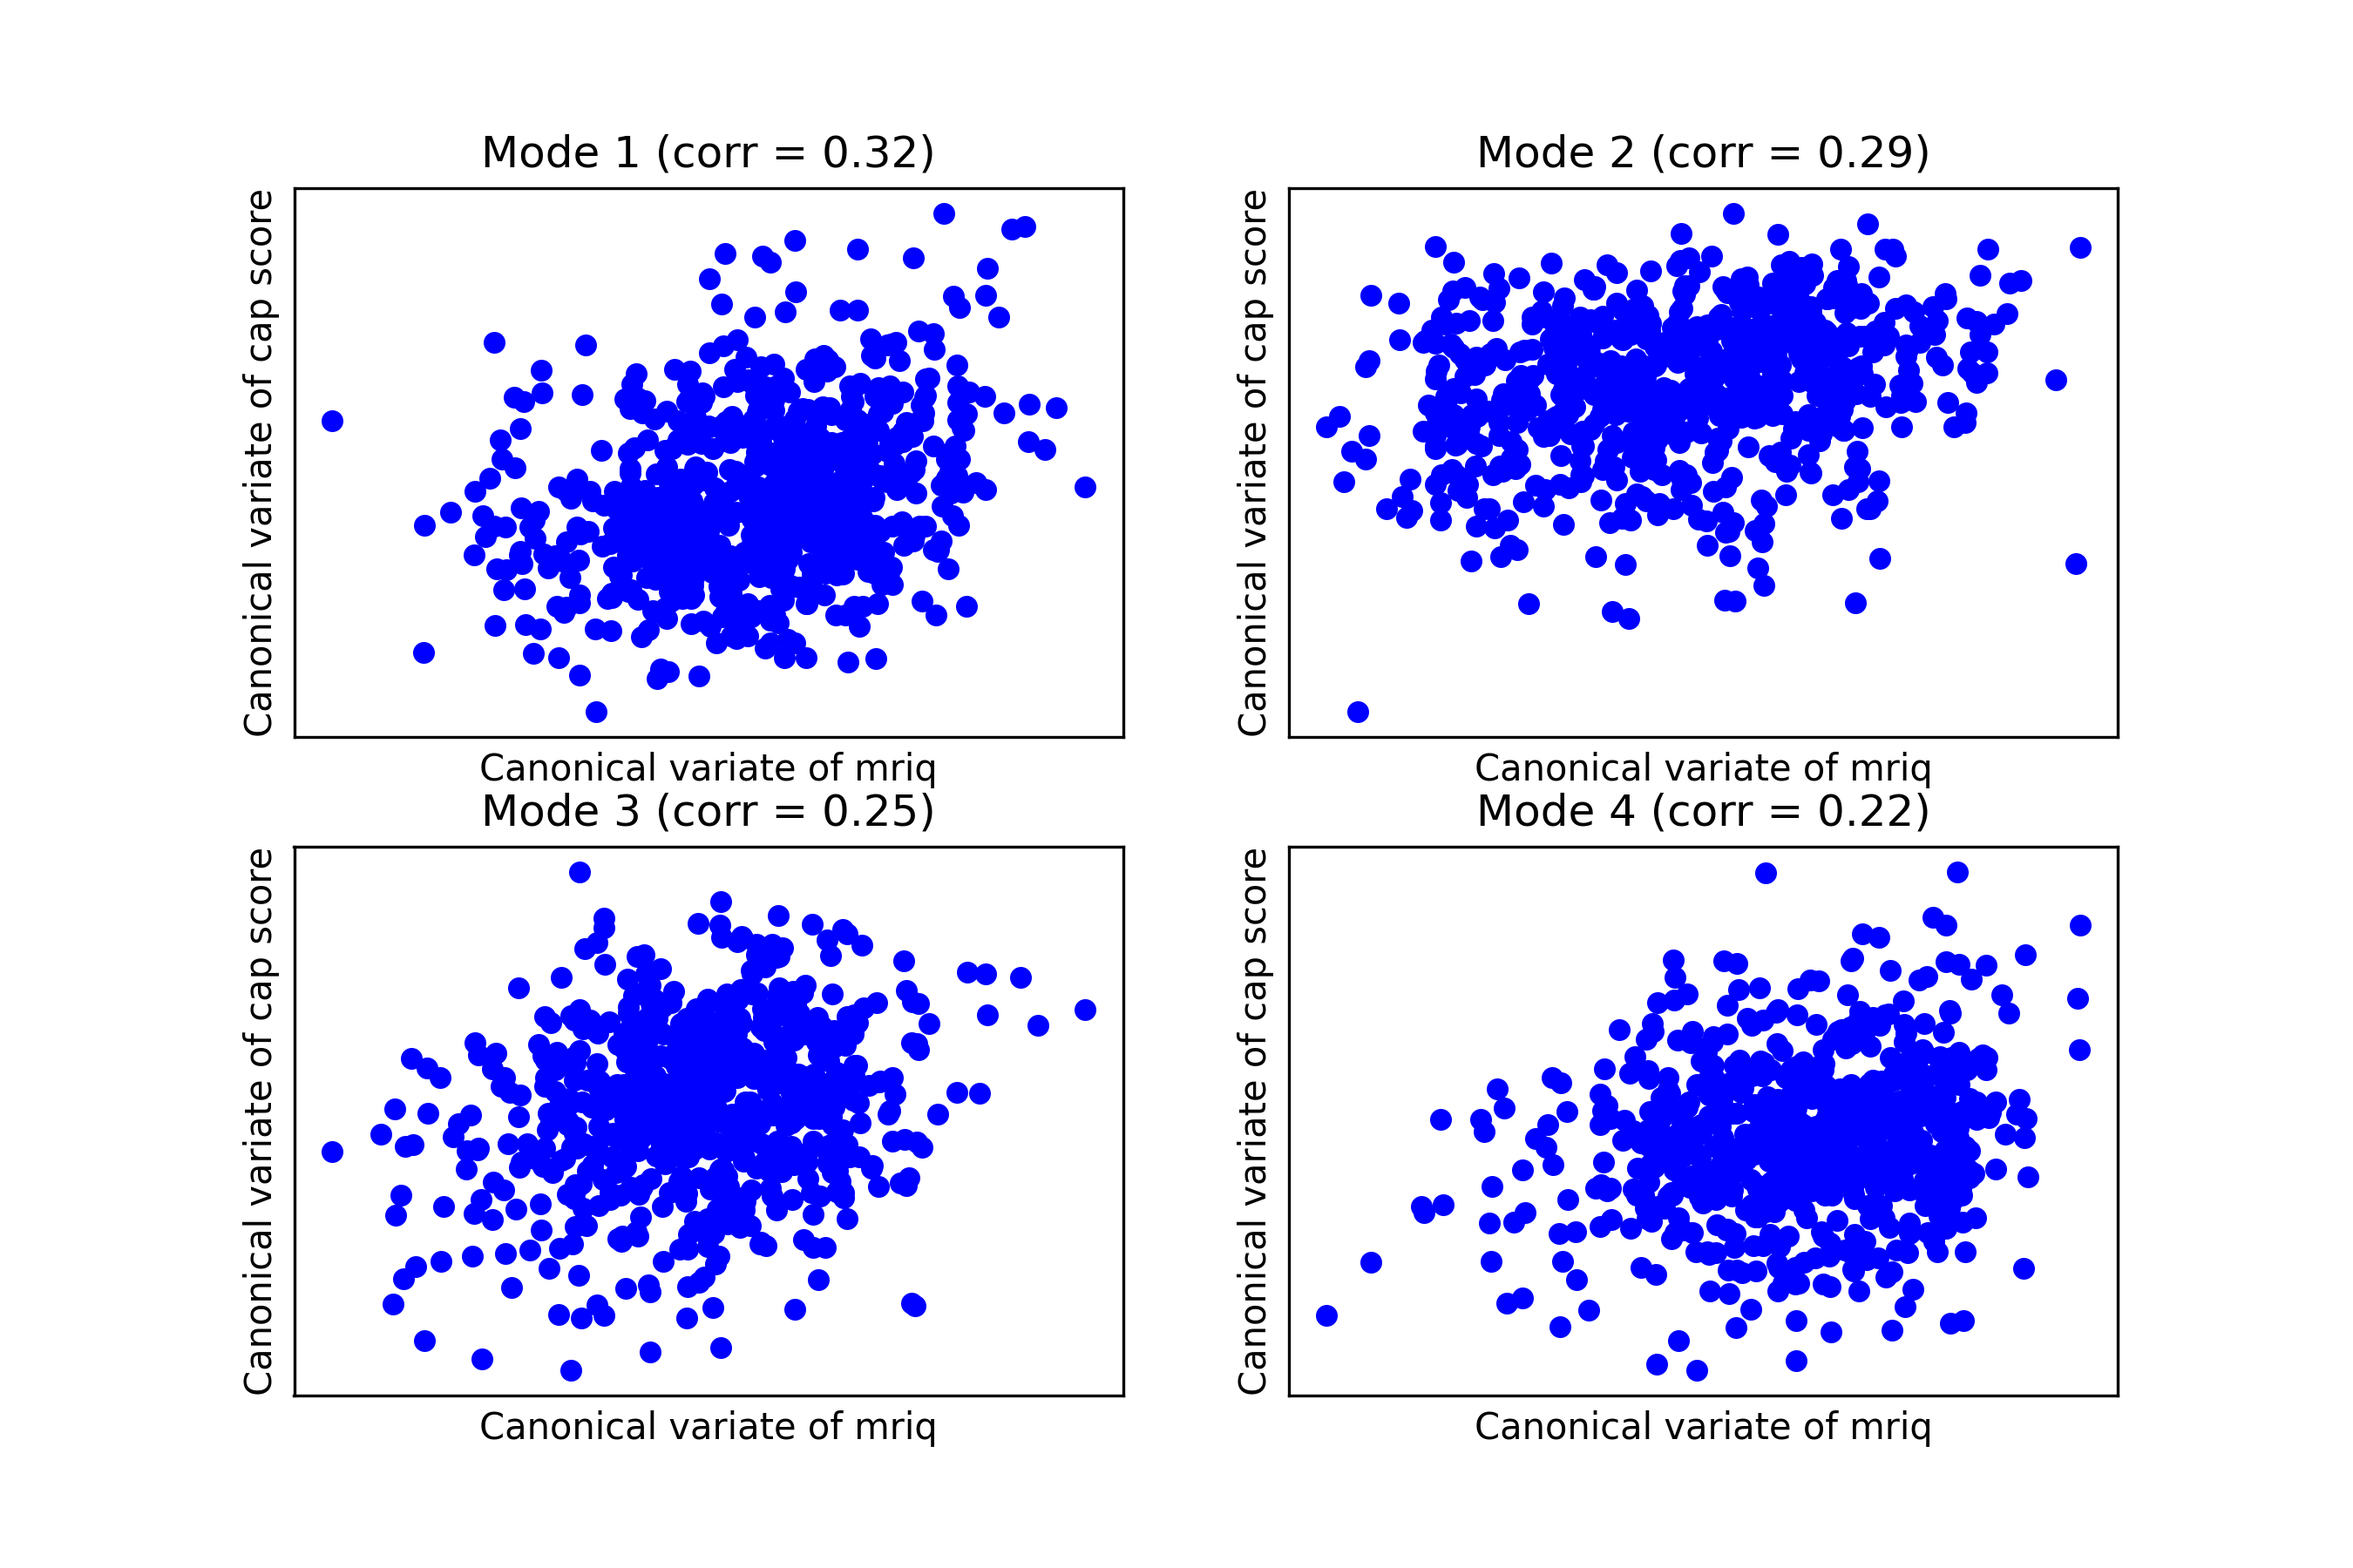
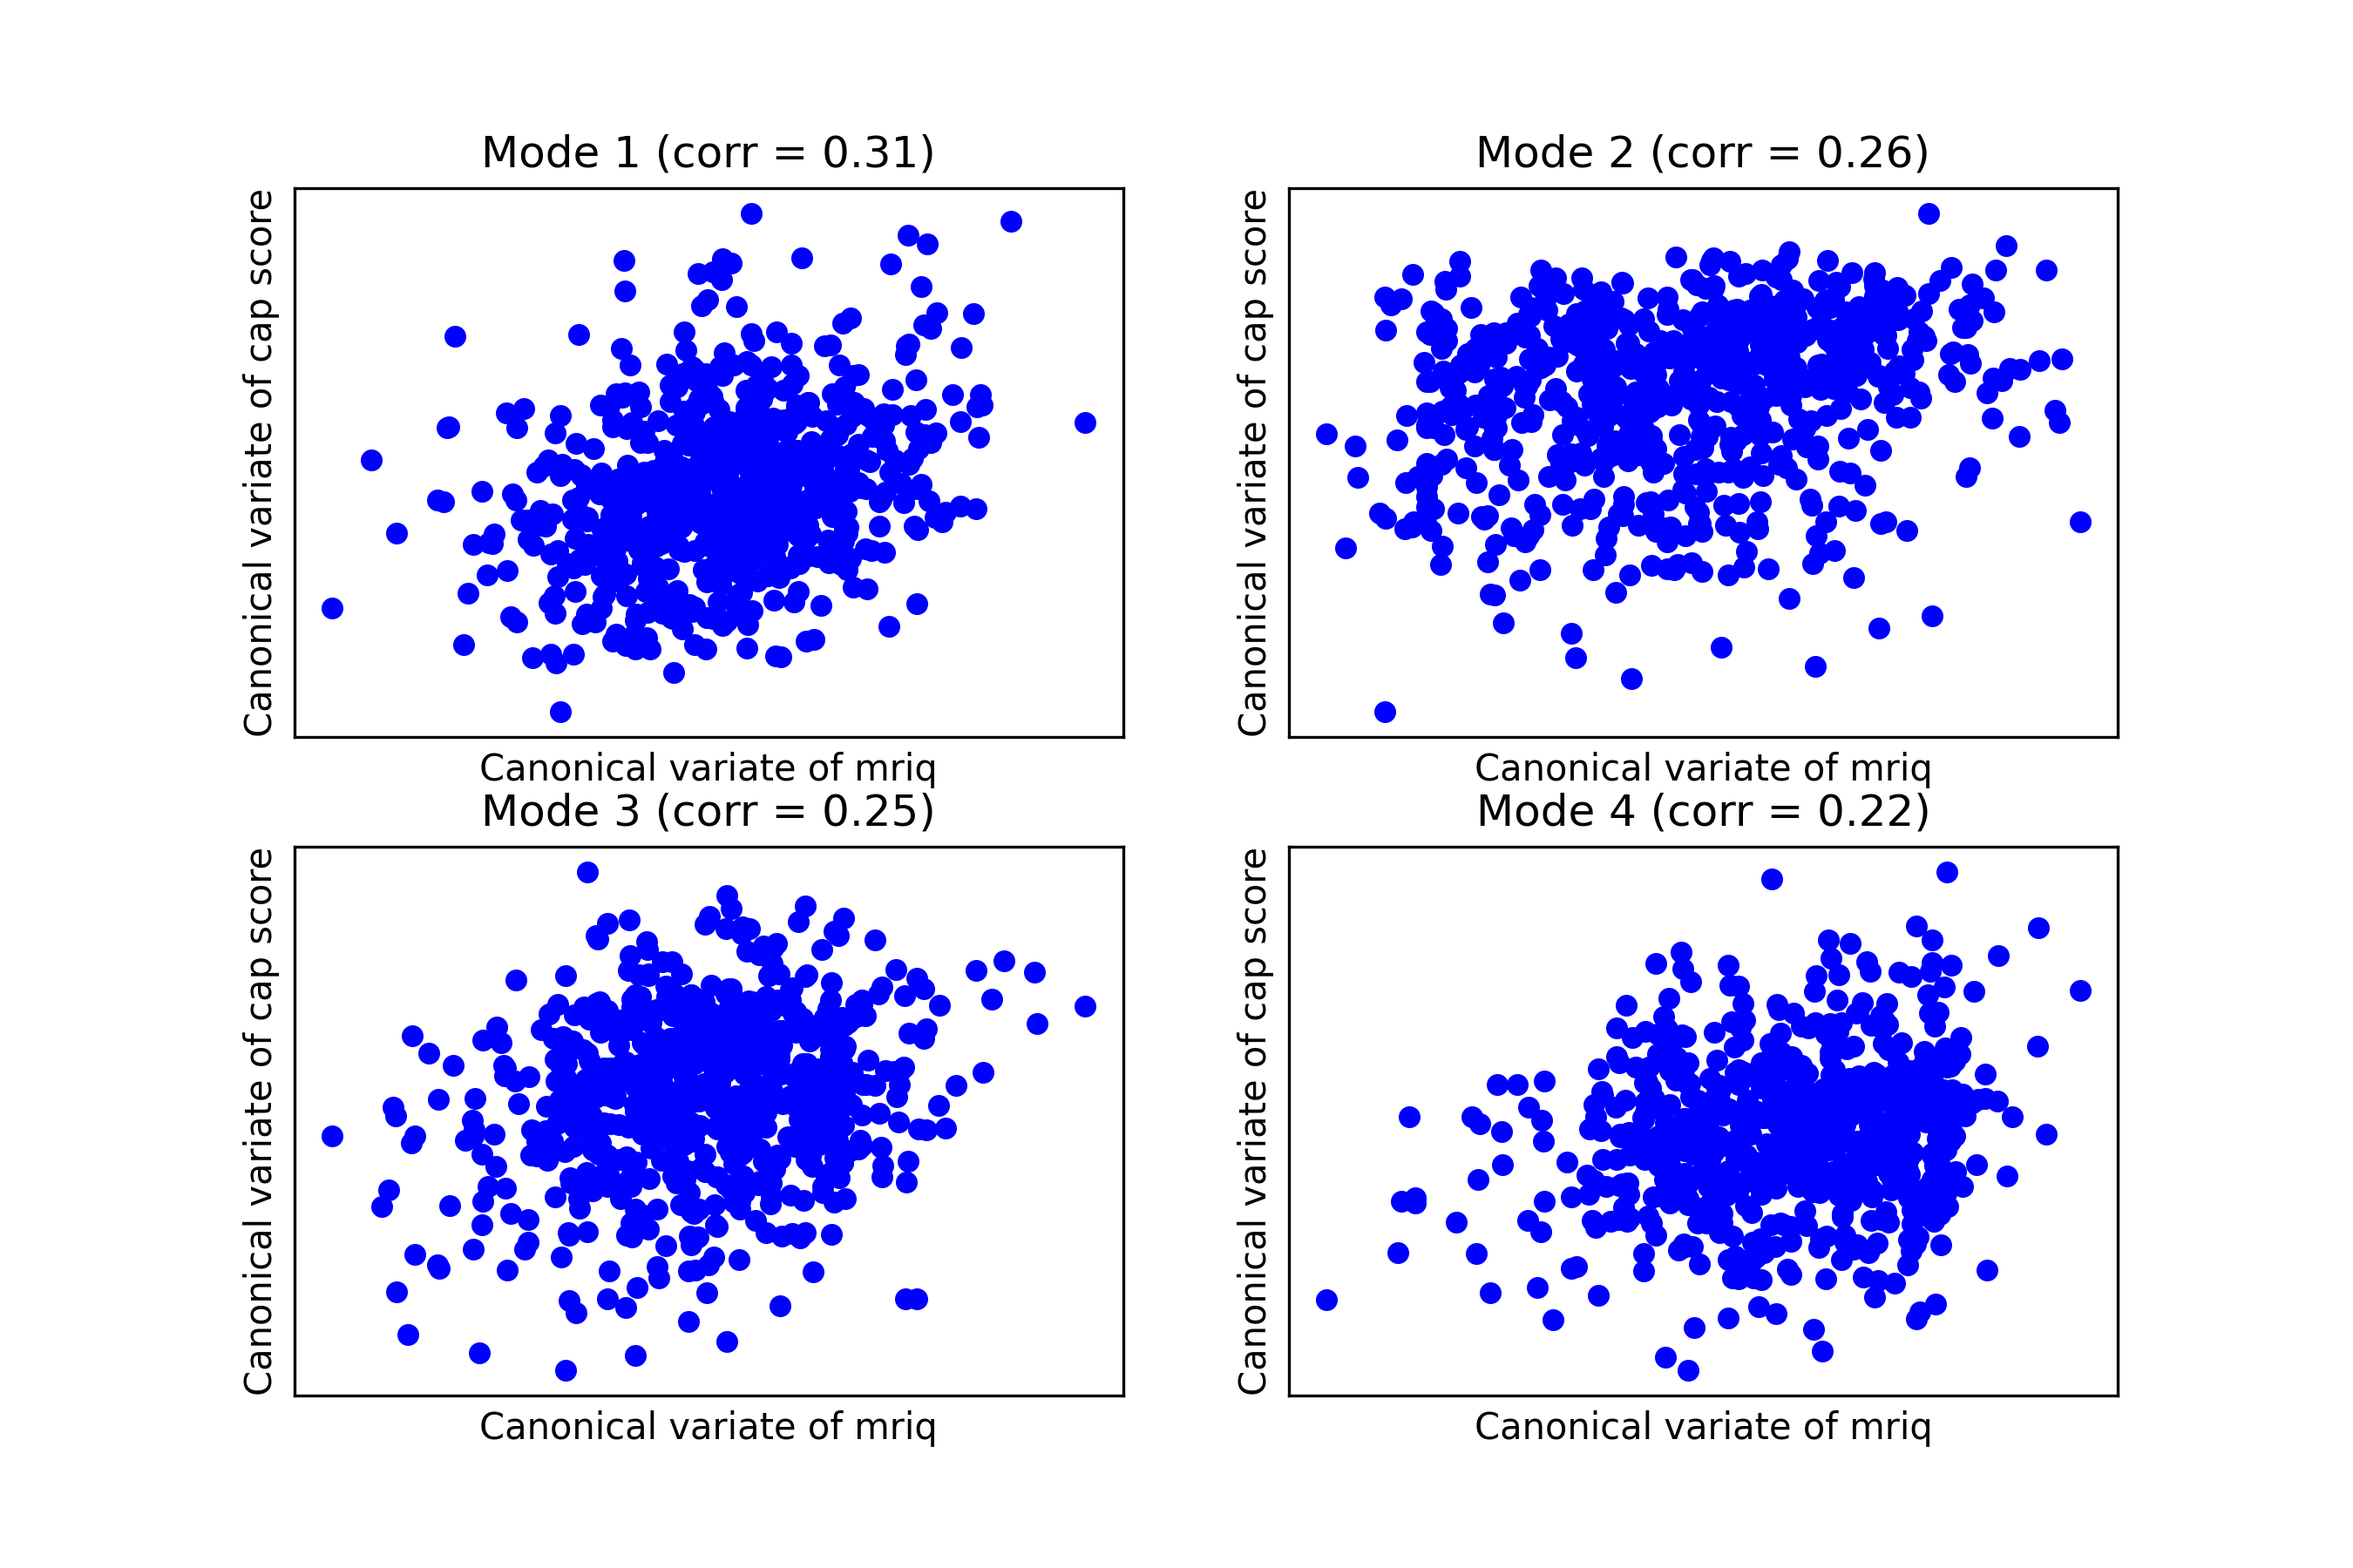
FIX the results with correctly dropped var

diff --git a/bin/descriptive.py b/bin/descriptive.py
@@ -186,9 +186,9 @@ def plot_cca(data, basepath="results/descriptive"):
 if __name__ == "__main__":
     import os
 
-    basepath = "results/descriptive-full"
-    # mriq_drop = ["mriq_19", "mriq_22"]
-    mriq_drop = None
+    basepath = "results/descriptive-drop"
+    mriq_drop = ["mriq_19", "mriq_22"]
+    # mriq_drop = None
     os.makedirs(basepath, exist_ok=True)
 
     data = Data(
